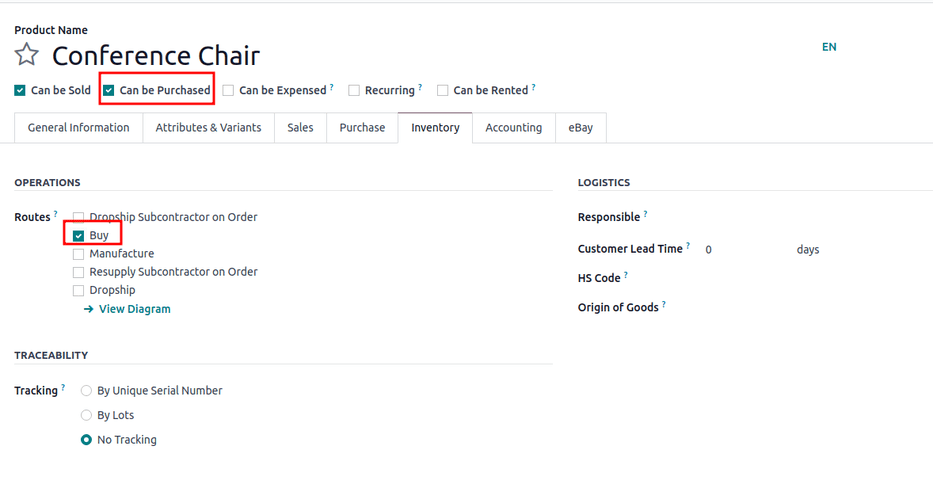
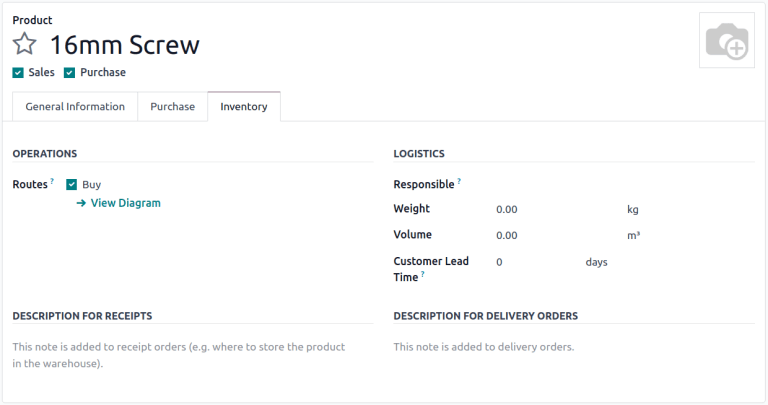
[IMP] Purchase: Update RFQ with dependency warnings and new images
Apply suggestions from code review

fix

edits

diff --git a/content/applications/inventory_and_mrp/purchase/manage_deals/rfq.rst b/content/applications/inventory_and_mrp/purchase/manage_deals/rfq.rst
@@ -22,40 +22,49 @@ Product
 -------
 
 To auto-populate product information and prices on an |RFQ|, configure products by going to
-:menuselection:`Purchase app --> Products --> Products`. Select an existing product, or create a
-new one by selecting :guilabel:`New`. Doing so opens the product form, where various sales and
-purchasing data can be configured.
+:menuselection:`Purchase app --> Products --> Products`. Select an existing product, or create a new
+one by selecting :guilabel:`New`. Doing so opens the product form, where sales and purchasing data
+can be configured.
 
-To configure purchasable products, tick the :guilabel:`Can be purchased` checkbox, under the product
-name. Then, go to the :guilabel:`Inventory` tab, and enable the :guilabel:`Buy` route.
+To configure purchasable products, tick the :guilabel:`Purchase` checkbox, under the product name.
+Next, go to the :guilabel:`Inventory` tab, and enable the :guilabel:`Buy` route.
+
+.. important::
+   The :guilabel:`Inventory` tab and routes are only visible if using the :doc:`Inventory app
+    <../../inventory>`.
+
+.. seealso::
+   :doc:`Configure product types and track quantities <../../../inventory_and_mrp/inventory/product_management/configure>`
 
 .. image:: rfq/product-vendor-pricelist-config.png
-   :align: center
    :alt: Required configuration for purchasable products.
+
 
 .. _purchase/manage_deals/vendor-pricelist:
 
 Vendor pricelist
 ----------------
 
-In the :guilabel:`Purchase` tab of the product form, input the vendor and their price, to have this
-information auto-populate on an |RFQ| each time the product is listed.
+In the :guilabel:`Purchase` tab of the product form, click :guilabel:`Add a line` to input the
+vendor and their price, to have this information auto-populate on an |RFQ| each time the product is
+listed.
 
 .. seealso::
    :doc:`../products/pricelist`
 
-Default columns include :guilabel:`Quantity`, :guilabel:`Price`, and :guilabel:`Delivery Lead Time`,
-but other columns like, :guilabel:`Product Variant` or :guilabel:`Discounts`, can also be enabled.
+Default columns include :guilabel:`Quantity`, :guilabel:`Unit Price`, and :guilabel:`Delivery Lead
+Time`, but other columns like, :guilabel:`Vendor Product Code` or :guilabel:`Discount (%)`, can also
+be enabled.
 
 To enable or disable columns, click the :icon:`oi-settings-adjust` :guilabel:`(additional options)`
 icon on the right side of the header row to reveal a drop-down menu of additional columns that can
 be added (or removed) from the :guilabel:`Purchase` tab.
 
 .. note::
-   Alternatively, prices and delivery lead times for existing products can be added in bulk by
-   going to :menuselection:`Purchase app --> Configuration --> Vendor Pricelists`. Click
-   :guilabel:`New` in the top-left corner. In the :guilabel:`Vendor` section of the pricelist form
-   that appears, add the product information as it pertains to the vendor.
+   Alternatively, prices and delivery lead times for existing products can be added by going to
+   :menuselection:`Purchase app --> Configuration --> Vendor Pricelists`. Click :guilabel:`New` in
+   the top-left corner. In the :guilabel:`Vendor` section of the pricelist form that appears, add
+   the product information as it pertains to the vendor.
 
 Order products
 ==============
@@ -72,8 +81,8 @@ The :guilabel:`Requests for Quotation` dashboard displays an overview of the com
 |POs|, and their status. The top of the screen breaks down all |RFQs| in the company, as well as
 individual ones (where the user is the buyer) with a summary of their status.
 
-The top-right corner also provides a quick report of the company's recent purchases by total value,
-lead times, and number of |RFQs| sent.
+The top-right corner also provides a report of the company's recent purchases by total value, lead
+times, and number of |RFQs| sent.
 
 Additionally, the dashboard includes buttons for:
 
@@ -82,10 +91,9 @@ Additionally, the dashboard includes buttons for:
 - :guilabel:`Late`: |RFQs| or |POs| where the :guilabel:`Order Deadline` has passed.
 
 .. image:: rfq/rfq-dashboard.png
-   :align: center
    :alt: RFQ dashboard with orders and order statuses.
 
-In addition to various view options, the :guilabel:`Requests for Quotation` dashboard provides
+In addition to view options, the :guilabel:`Requests for Quotation` dashboard provides
 :guilabel:`Filters` and :guilabel:`Group By` options, accessible via the search bar drop-down menu.
 
 .. seealso::
@@ -93,8 +101,8 @@ In addition to various view options, the :guilabel:`Requests for Quotation` dash
 
 .. _purchase/manage_deals/create-new-rfq:
 
-Create new |RFQ|
-----------------
+Create a new |RFQ|
+------------------
 
 To create a new |RFQ|, click the :guilabel:`New` button on the top-left corner of the
 :guilabel:`Requests for Quotation` dashboard to reveal a new |PO| form.
@@ -105,11 +113,15 @@ The :guilabel:`Vendor Reference` field points to the sales and delivery order nu
 vendor. This comes in handy once products are received, and the |PO| needs to be matched to the
 delivery order.
 
-The :guilabel:`Blanket Order` field refers to long-term purchase agreements on recurring orders with
-set pricing. To view and configure blanket orders, head to :menuselection:`Purchase app --> Orders
---> Purchase agreements`.
+With the :doc:`Purchase Agreements feature <blanket_orders>` activated, the :guilabel:`Blanket
+Order` field appears, referring to long-term purchase agreements on recurring orders with set
+pricing. To view and configure blanket orders, head to :menuselection:`Purchase app --> Orders -->
+Purchase agreements`.
 
-The :guilabel:`Currency` can be changed, if purchasing products from a vendor in another country.
+.. important::
+   The :guilabel:`Purchase agreements` view only appears if the :guilabel:`Blanket Order` setting is
+   enabled. To do so, navigate to :menuselection:`Purchase app --> Configuration --> Settings`, then
+   tick the :guilabel:`Blanket Orders` checkbox.
 
 Next, configure an :guilabel:`Order Deadline`, which is the date by which the vendor must confirm
 their agreement to supply the products.
@@ -118,18 +130,29 @@ their agreement to supply the products.
    After the :guilabel:`Order Deadline` is exceeded, the |RFQ| is marked as late, but the products
    can still be ordered.
 
-:guilabel:`Expected Arrival` is automatically calculated based on the :guilabel:`Order Deadline`
-and vendor lead time. Tick the checkbox for :guilabel:`Ask confirmation` to ask for signage at
-delivery.
+:guilabel:`Expected Arrival` is automatically calculated based on the :guilabel:`Order Deadline` and
+vendor lead time. Tick the checkbox for :guilabel:`Ask confirmation` to ask the vendor to confirm
+the shipping date by email.
 
 With the :doc:`Storage Locations feature
-<../../inventory/warehouses_storage/inventory_management/use_locations>` activated,
-the :guilabel:`Deliver to` field appears, with options for the order shipment.
+ <../../inventory/warehouses_storage/inventory_management/use_locations>` activated, the
+:guilabel:`Deliver to` field appears, which specifies which warehouse operation (set in the
+**Inventory** app) is used to receive the shipment.
 
 Select the receiving warehouse address here, or select :guilabel:`Dropship` to indicate that this
 order is to be shipped directly to the end customer. When :guilabel:`Dropship` is selected, the
 :guilabel:`Dropship address` field is enabled. Contact names auto-populate here from the
 **Contacts** app.
+
+.. important::
+   The :guilabel:`Dropship` options only appear if the :guilabel:`Dropshipping` setting is enabled
+   in the **Inventory** app. To do so, navigate to :menuselection:`Inventory app --> Configuration
+   --> Settings`, then tick the :guilabel:`Dropshipping` checkbox.
+
+.. tip::
+   To create |RFQs| using different currencies, each currency needs to be enabled in the
+   **Invoicing** app settings. See :doc:`../../../sales/sales/products_prices/prices/currencies` to
+   learn more.
 
 Products tab
 ~~~~~~~~~~~~
@@ -138,9 +161,9 @@ In the :guilabel:`Products` tab, add the products to be ordered. Click :guilabel
 and type in the product name, or select the item from the drop-down menu.
 
 To create a new product and add it, type the new product name in the :guilabel:`Product` column,
-select :guilabel:`Create [product name]` from the resulting drop-down menu, and manually add the
-unit price. Or, select :guilabel:`Create and edit...` to be taken to the product form for that new
-item.
+select :guilabel:`Create [product name]` from the resulting drop-down menu and manually add the unit
+price. Alternatively, select :guilabel:`Create and edit...` to be taken to the product form for that
+new item.
 
 :guilabel:`Catalog` can also be selected to navigate to a product menu from the chosen vendor. From
 here, products can be added to the cart.
@@ -150,8 +173,8 @@ here, products can be added to the cart.
    :icon:`oi-arrow-right` :guilabel:`(right arrow)` icon that becomes available upon hovering over
    the :guilabel:`Product` name.
 
-Send |RFQ|
-----------
+Send the |RFQ|
+--------------
 
 Clicking :guilabel:`Send by Email` reveals a :guilabel:`Compose Email` pop-up window, with a
 :guilabel:`Purchase: Request for Quotation` template loaded, ready to send to the vendor's email
@@ -161,6 +184,9 @@ After crafting the desired message, click :guilabel:`Send`. Once sent, the |RFQ|
 :guilabel:`RFQ Sent` stage.
 
 Clicking :guilabel:`Print RFQ` downloads a PDF of the |RFQ|.
+
+.. seealso::
+   :doc:`../../../essentials/contacts`
 
 Confirm order
 -------------
@@ -191,4 +217,3 @@ documentation on :doc:`managing vendor bills <manage>`.
 
 .. seealso::
    :doc:`manage`
-
